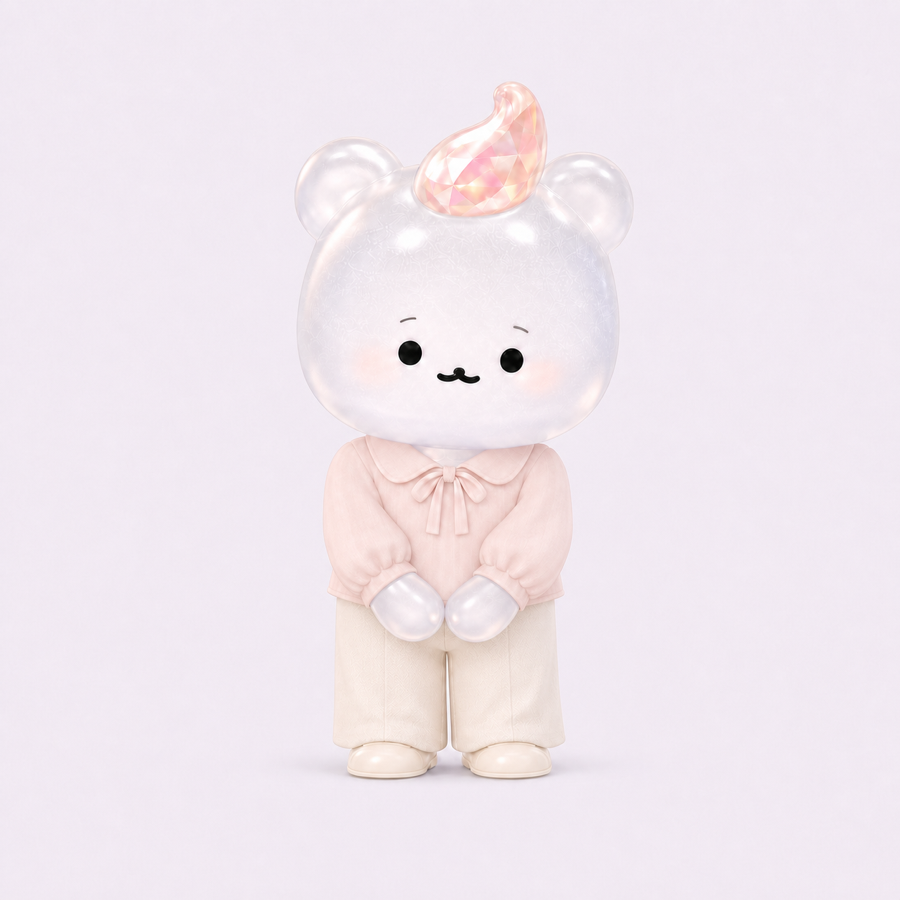
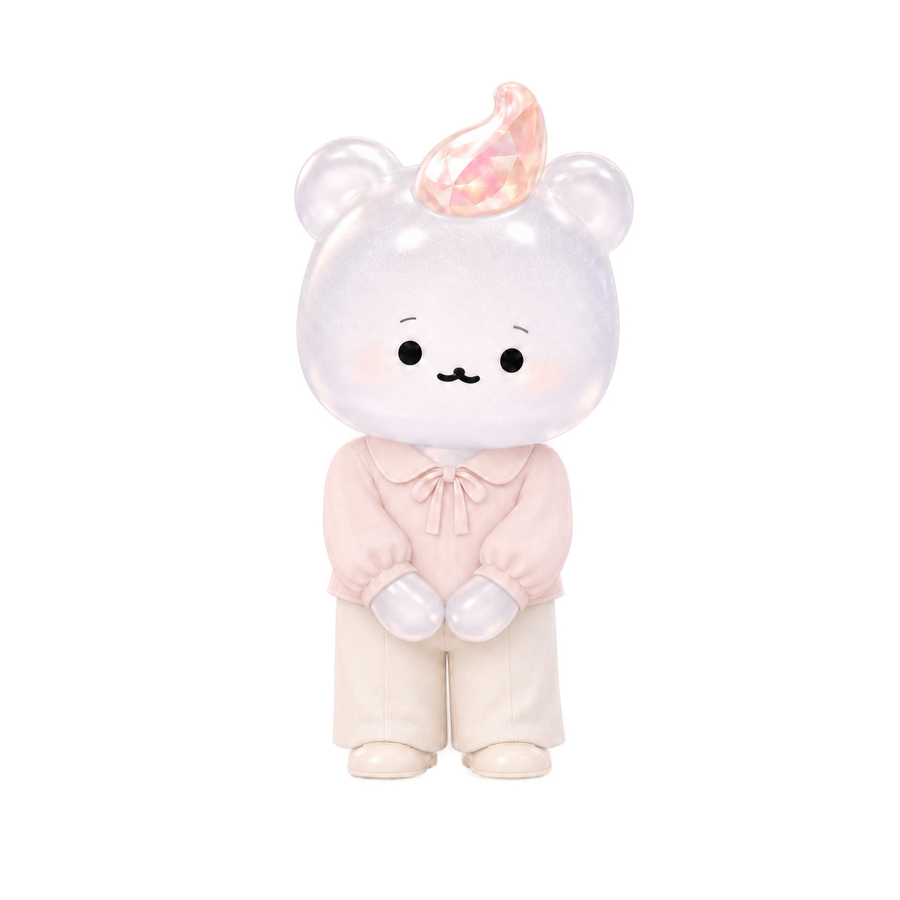
deploy: sync survey from source (3e6697c)

Changed region(s): [[0.3111, 0.84, 0.6844, 0.8711]]

diff --git a/index.html b/index.html
@@ -63,14 +63,15 @@ h1{font-size:26px;line-height:1.3;} h2{font-size:20px;line-height:1.4;margin-bot
 .cmp-sub{font-size:12.5px;opacity:.9;margin-top:6px;line-height:1.6;word-break:keep-all;overflow-wrap:break-word;padding:0 6px;}
 .cmp-arrow{text-align:center;font-size:20px;color:var(--sub);margin:9px 0;font-weight:700;}
 /* ── 결과 캐러셀 4페이지 (대표 요청 2026-07-25) ── */
-.carousel{display:flex;overflow-x:auto;scroll-snap-type:x mandatory;-webkit-overflow-scrolling:touch;scrollbar-width:none;margin:6px 0 0;}
+.carousel{display:flex;overflow-x:auto;scroll-snap-type:x mandatory;-webkit-overflow-scrolling:touch;scrollbar-width:none;margin:6px 0 0;min-height:420px;}
 .carousel::-webkit-scrollbar{display:none;}
 .cpage{flex:0 0 100%;min-width:100%;scroll-snap-align:center;box-sizing:border-box;padding:0 2px;}
-.cp-inner{border-radius:20px;padding:24px 20px 28px;min-height:452px;display:flex;flex-direction:column;align-items:center;text-align:center;box-shadow:0 4px 16px rgba(58,43,69,.10);box-sizing:border-box;}
+.cp-inner{border-radius:20px;padding:22px 20px 24px;height:100%;overflow-y:auto;-webkit-overflow-scrolling:touch;display:flex;flex-direction:column;align-items:center;text-align:center;box-shadow:0 4px 16px rgba(58,43,69,.10);box-sizing:border-box;}
 .cp-inner.info{background:#fff;justify-content:flex-start;}
 .cp-inner.char{background-size:cover;background-position:center;color:#fff;justify-content:center;}
 .cp-inner.char .cp-label,.cp-inner.char .cp-type,.cp-inner.char .cp-pc,.cp-inner.char .cp-desc{text-shadow:0 1px 8px rgba(0,0,0,.5);}
-.cp-char{width:200px;height:200px;object-fit:cover;margin:4px 0 12px;border-radius:24px;background:rgba(255,255,255,.55);box-shadow:0 8px 20px rgba(0,0,0,.24);}
+/* 투명 캐릭터: 프레임 없이 r1 배경 위에 바로 (배경 투명화 후) */
+.cp-char{width:210px;height:210px;object-fit:contain;margin:2px 0 8px;filter:drop-shadow(0 10px 18px rgba(0,0,0,.32));}
 .cp-label{font-size:14px;font-weight:700;letter-spacing:.02em;opacity:.95;}
 .cp-type{font-size:42px;font-weight:800;line-height:1.15;margin-top:3px;letter-spacing:-.02em;}
 .cp-pc{font-size:14px;font-weight:700;margin-top:12px;opacity:.96;}
@@ -120,7 +121,7 @@ const SB_URL = "https://qngylynylgqlbidvtbci.supabase.co";
 const SB_KEY = "sb_publishable_bGVbZ31O7OX_rnkLVb0i5Q_SDa8JEri";
 const FORM_BASE = "https://docs.google.com/forms/d/e/1FAIpQLSfPlgpjnoS-JO78dDB3D2TM6vnLL59yTYTJ0idnwfgXQzyYCA/viewform?usp=pp_url";
 const FORM_ENTRY = {want:"574367992", have:"395118856", dur:"1863591096", gender:"701863111", raw:"1782704335"};
-const APP_VERSION = "beta_v3.19"; // 사용자 대면 변경이 실제 배포될 때만 상승 (계측 단일 출처) — v3.11 B7폐지 · v3.12 무드→매력/분위기 용어통일 · v3.13 시작화면 인트로 B안(마케팅 2026-07-23) · v3.16 결과화면3차:저장iOS수정·저장2장분리·공유카드통일레이아웃 · v3.17 저장이미지=결과페이지 미러링(비교·분포·지금의나·방향·첫걸음)·카피점검(귀품→기품·"당신의힘" 반복제거·로맨틱설명 개선) · v3.19 결과화면 캐러셀 4페이지(현재/추구미/분포/해설·좌우슬라이드)·타입별 구미캐릭터+r1배경·저장4장·시작화면 메인이미지 · v3.18 고객팀검수 반영:Pretendard실로드·성별/mood/시작버튼 선택피드백 강화·칩 최대개수 안내·keep-all 전역·이미지라벨 스크림 강화
+const APP_VERSION = "beta_v3.20"; // 사용자 대면 변경이 실제 배포될 때만 상승 (계측 단일 출처) — v3.11 B7폐지 · v3.12 무드→매력/분위기 용어통일 · v3.13 시작화면 인트로 B안(마케팅 2026-07-23) · v3.16 결과화면3차:저장iOS수정·저장2장분리·공유카드통일레이아웃 · v3.17 저장이미지=결과페이지 미러링(비교·분포·지금의나·방향·첫걸음)·카피점검(귀품→기품·"당신의힘" 반복제거·로맨틱설명 개선) · v3.19 결과화면 캐러셀 4페이지(현재/추구미/분포/해설·좌우슬라이드)·타입별 구미캐릭터+r1배경·저장4장·시작화면 메인이미지 · v3.20 캐릭터 배경투명화(rembg)·버튼 전용 5페이지 분리·모바일 원페이지 최적화(fitCarousel) · v3.18 고객팀검수 반영:Pretendard실로드·성별/mood/시작버튼 선택피드백 강화·칩 최대개수 안내·keep-all 전역·이미지라벨 스크림 강화
 // ---- 익명 유저 ID (기기 단위, 개인정보 아님) ----
 let UID = null;
 try { UID = localStorage.getItem("czm_uid"); if(!UID){ UID = (crypto.randomUUID ? crypto.randomUUID() : 'u'+Date.now()+Math.random().toString(36).slice(2)); localStorage.setItem("czm_uid", UID); } } catch(e){ UID = 'u'+Date.now(); }
@@ -675,28 +676,29 @@ function renderResult(){
        ${gapNote}
        <div class="sec" style="width:100%"><h3>✨ ${W.name}에 다가가는 첫걸음</h3><p><b>유지·강화:</b> ${wKeep}<br><b>스타일:</b> ${wStyle}</p></div>
      </div></div>
+     <div class="cpage"><div class="cp-inner info">
+       <div class="cp-title">📸 저장하고 공유하기</div>
+       <button class="btn" style="background:#fff;color:var(--accent);border:1.5px solid var(--accent);margin-top:0" onclick="saveSheet()">📥 내 진단결과 저장하기 (4장)</button>
+       <button class="btn" style="background:linear-gradient(90deg,#B76BA3,#4A2B5C)" onclick="shareCard()">💌 내 매력+추구미 카드 공유하기</button>
+       <div class="sec" style="width:100%"><h3>이 결과, 어땠나요?</h3>
+         <div class="fb"><button id="fbY" onclick="fb(1)">👍 나 같아요</button><button id="fbN" onclick="fb(0)">🤔 갸우뚱해요</button></div>
+         <div id="selfPickBox" style="display:none;margin-top:10px">
+           <p style="font-size:13px;color:var(--sub);margin-bottom:8px">그렇다면, 스스로 생각하는 내 추구미는 뭐에 가까워요? <span style="font-weight:400">(선택)</span></p>
+           <div class="chipgrid">${TKEYS.map(k=>`<div class="chip-item sp-chip" data-k="${k}" onclick="pickSelf('${k}')">${TYPES[k].name}</div>`).join("")}</div>
+         </div>
+         <textarea id="fbTxt" placeholder="추가하고 싶은 질문이나, 이상했던 문항이 있다면 알려주세요! (선택)"></textarea>
+         <button class="btn" onclick="saveLog()">다음 — 피드백 남기기</button>
+         <button class="btn ghost" onclick="location.reload()">처음부터 다시</button></div>
+       <div class="sec" id="waitSec" style="width:100%"><h3>🫧 내 추구미로 가는 4주 코칭</h3>
+         <p class="small" style="margin:4px 0 10px;text-align:left">구미가 매주 딱 하나씩, 나에게 맞는 변화 미션을 처방해드려요. 곧 열려요 — 가장 먼저 알림 받기:</p>
+         <input id="wlContact" placeholder="이메일 또는 인스타 아이디" style="width:100%;padding:12px;border-radius:10px;border:1.5px solid var(--line);font-size:16px;box-sizing:border-box"/>
+         <button class="btn" style="margin-top:8px" onclick="joinWaitlist()">코칭 열리면 알려주세요</button></div>
+       <p class="small">사진 진단이 더해지면 훨씬 정확해져요</p>
+     </div></div>
    </div>
-   <div class="dots"><span class="dot on"></span><span class="dot"></span><span class="dot"></span><span class="dot"></span></div>
-   <div class="swipe-hint">← 좌우로 넘겨서 전체 결과를 확인하세요 →</div>
-   <div class="card" style="margin-top:16px">
-     <button class="btn" style="background:#fff;color:var(--accent);border:1.5px solid var(--accent);margin-top:4px" onclick="saveSheet()">📥 내 진단결과 저장하기 (4장)</button>
-     <button class="btn" style="background:linear-gradient(90deg,#B76BA3,#4A2B5C)" onclick="shareCard()">💌 내 매력+추구미 카드 공유하기</button>
-     <div class="sec"><h3>이 결과, 어땠나요?</h3>
-       <div class="fb"><button id="fbY" onclick="fb(1)">👍 나 같아요</button><button id="fbN" onclick="fb(0)">🤔 갸우뚱해요</button></div>
-       <div id="selfPickBox" style="display:none;margin-top:10px">
-         <p style="font-size:13px;color:var(--sub);margin-bottom:8px">그렇다면, 스스로 생각하는 내 추구미는 뭐에 가까워요? <span style="font-weight:400">(선택)</span></p>
-         <div class="chipgrid">${TKEYS.map(k=>`<div class="chip-item sp-chip" data-k="${k}" onclick="pickSelf('${k}')">${TYPES[k].name}</div>`).join("")}</div>
-       </div>
-       <textarea id="fbTxt" placeholder="추가하고 싶은 질문이나, 이상했던 문항이 있다면 알려주세요! (선택)"></textarea>
-       <button class="btn" onclick="saveLog()">다음 — 피드백 남기기</button>
-       <button class="btn ghost" onclick="location.reload()">처음부터 다시</button></div>
-     <div class="sec" id="waitSec"><h3>🫧 내 추구미로 가는 4주 코칭</h3>
-       <p class="small" style="margin:4px 0 10px;text-align:left">구미가 매주 딱 하나씩, 나에게 맞는 변화 미션을 처방해드려요. 곧 열려요 — 가장 먼저 알림 받기:</p>
-       <input id="wlContact" placeholder="이메일 또는 인스타 아이디" style="width:100%;padding:12px;border-radius:10px;border:1.5px solid var(--line);font-size:16px;box-sizing:border-box"/>
-       <button class="btn" style="margin-top:8px" onclick="joinWaitlist()">코칭 열리면 알려주세요</button></div>
-     <p class="small">사진 진단이 더해지면 훨씬 정확해져요</p>
-   </div>`;
-  carDot();
+   <div class="dots"><span class="dot on"></span><span class="dot"></span><span class="dot"></span><span class="dot"></span><span class="dot"></span></div>
+   <div class="swipe-hint">← 좌우로 넘겨서 전체 결과를 확인하세요 →</div>`;
+  carDot(); fitCarousel();
   window._result={gender:GENDER,want:wr[0][0],wantRank:wr.slice(0,3),have:hr[0][0],extraUsed:extraQ.length};
 }
 function carDot(){ // 결과 캐러셀 현재 페이지 → 도트 표시 동기화
@@ -704,6 +706,15 @@ function carDot(){ // 결과 캐러셀 현재 페이지 → 도트 표시 동기
   const i=Math.round(c.scrollLeft/c.clientWidth);
   document.querySelectorAll(".dots .dot").forEach((d,k)=>d.classList.toggle("on",k===i));
 }
+function fitCarousel(){ // 모바일 원페이지: 캐러셀을 뷰포트 남는 높이에 맞춤 (각 페이지=한 화면)
+  const c=$("rcar"); if(!c) return;
+  const top=c.getBoundingClientRect().top;
+  const vh=window.innerHeight||600;
+  const reserve=84; // 도트+스와이프 힌트+하단 여백
+  c.style.height=Math.max(400,Math.round(vh-top-reserve))+"px";
+}
+window.addEventListener("resize",fitCarousel);
+window.addEventListener("orientationchange",()=>setTimeout(fitCarousel,200));
 let fbVal=null, selfPick=null;
 function fb(v){
   fbVal=v; $("fbY").classList.toggle("sel",v===1); $("fbN").classList.toggle("sel",v===0);
@@ -848,13 +859,9 @@ async function drawCharSheet(label,t,key){
   x.textAlign="center"; x.shadowColor="rgba(0,0,0,.5)"; x.shadowBlur=12; x.shadowOffsetY=2;
   x.fillStyle="rgba(255,255,255,.95)"; x.font="700 42px Pretendard,sans-serif"; x.fillText(label,540,150);
   const ch=await loadImg("bg/char_"+key+".png");
-  if(ch){ const s=590, sx=540-s/2, sy=195;
+  if(ch){ const s=600, sx=540-s/2, sy=190;   // 투명 PNG → 프레임 없이 그림자만
     x.save();
-    x.shadowColor="rgba(0,0,0,.32)"; x.shadowBlur=26; x.shadowOffsetY=8;
-    x.fillStyle="rgba(255,255,255,.55)";
-    if(x.roundRect){ x.beginPath(); x.roundRect(sx,sy,s,s,72); x.fill(); } else x.fillRect(sx,sy,s,s);
-    x.shadowBlur=0; x.shadowOffsetY=0;
-    if(x.roundRect){ x.beginPath(); x.roundRect(sx,sy,s,s,72); x.clip(); }
+    x.shadowColor="rgba(0,0,0,.38)"; x.shadowBlur=34; x.shadowOffsetY=14;
     x.drawImage(ch,sx,sy,s,s);
     x.restore();
   }
